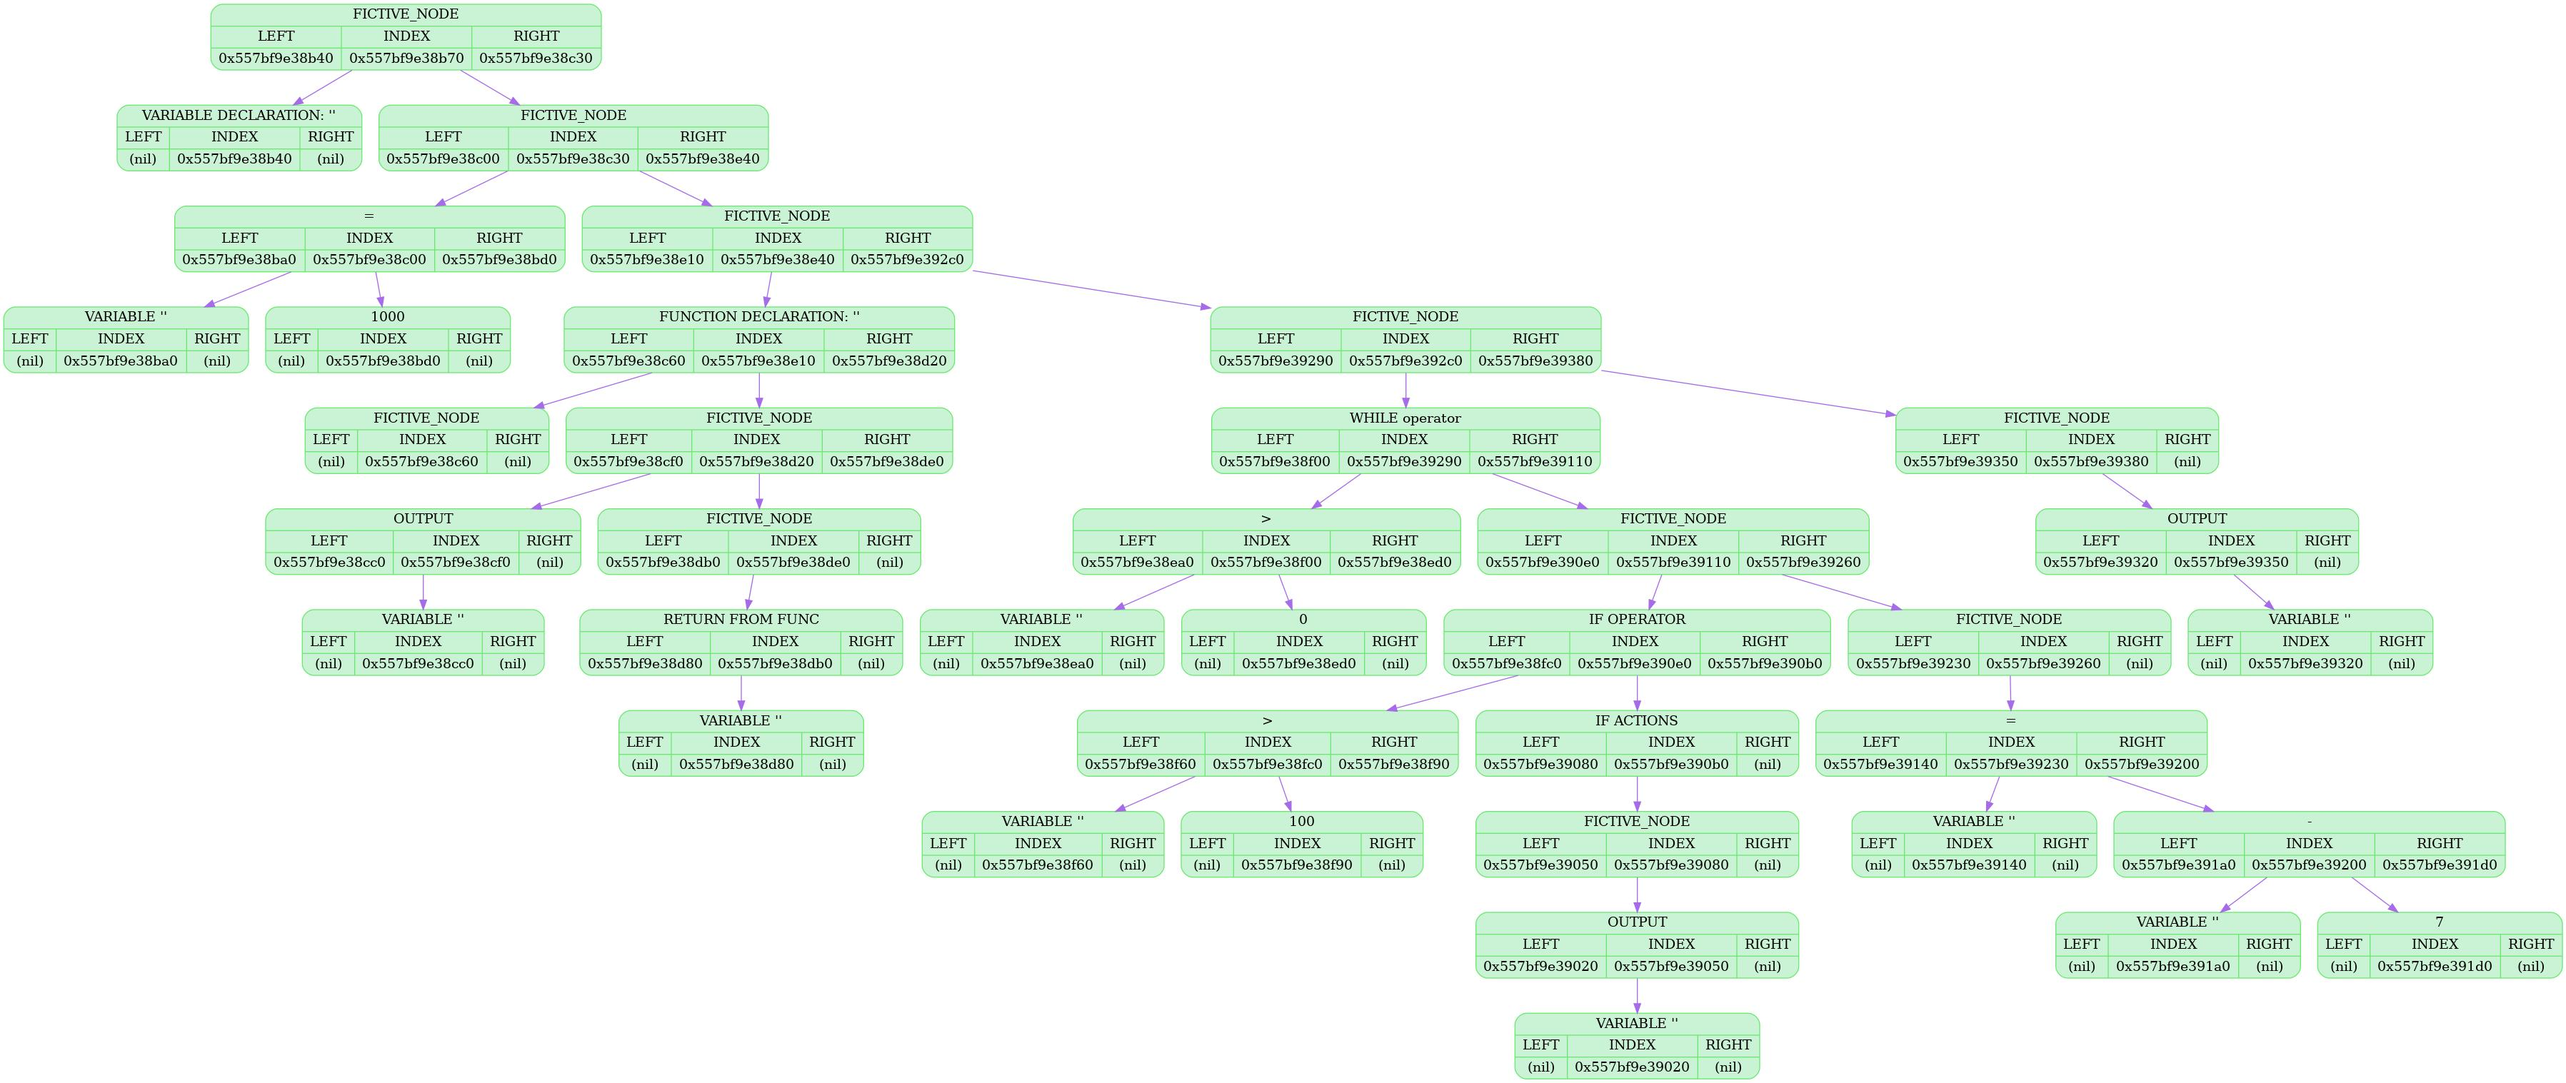
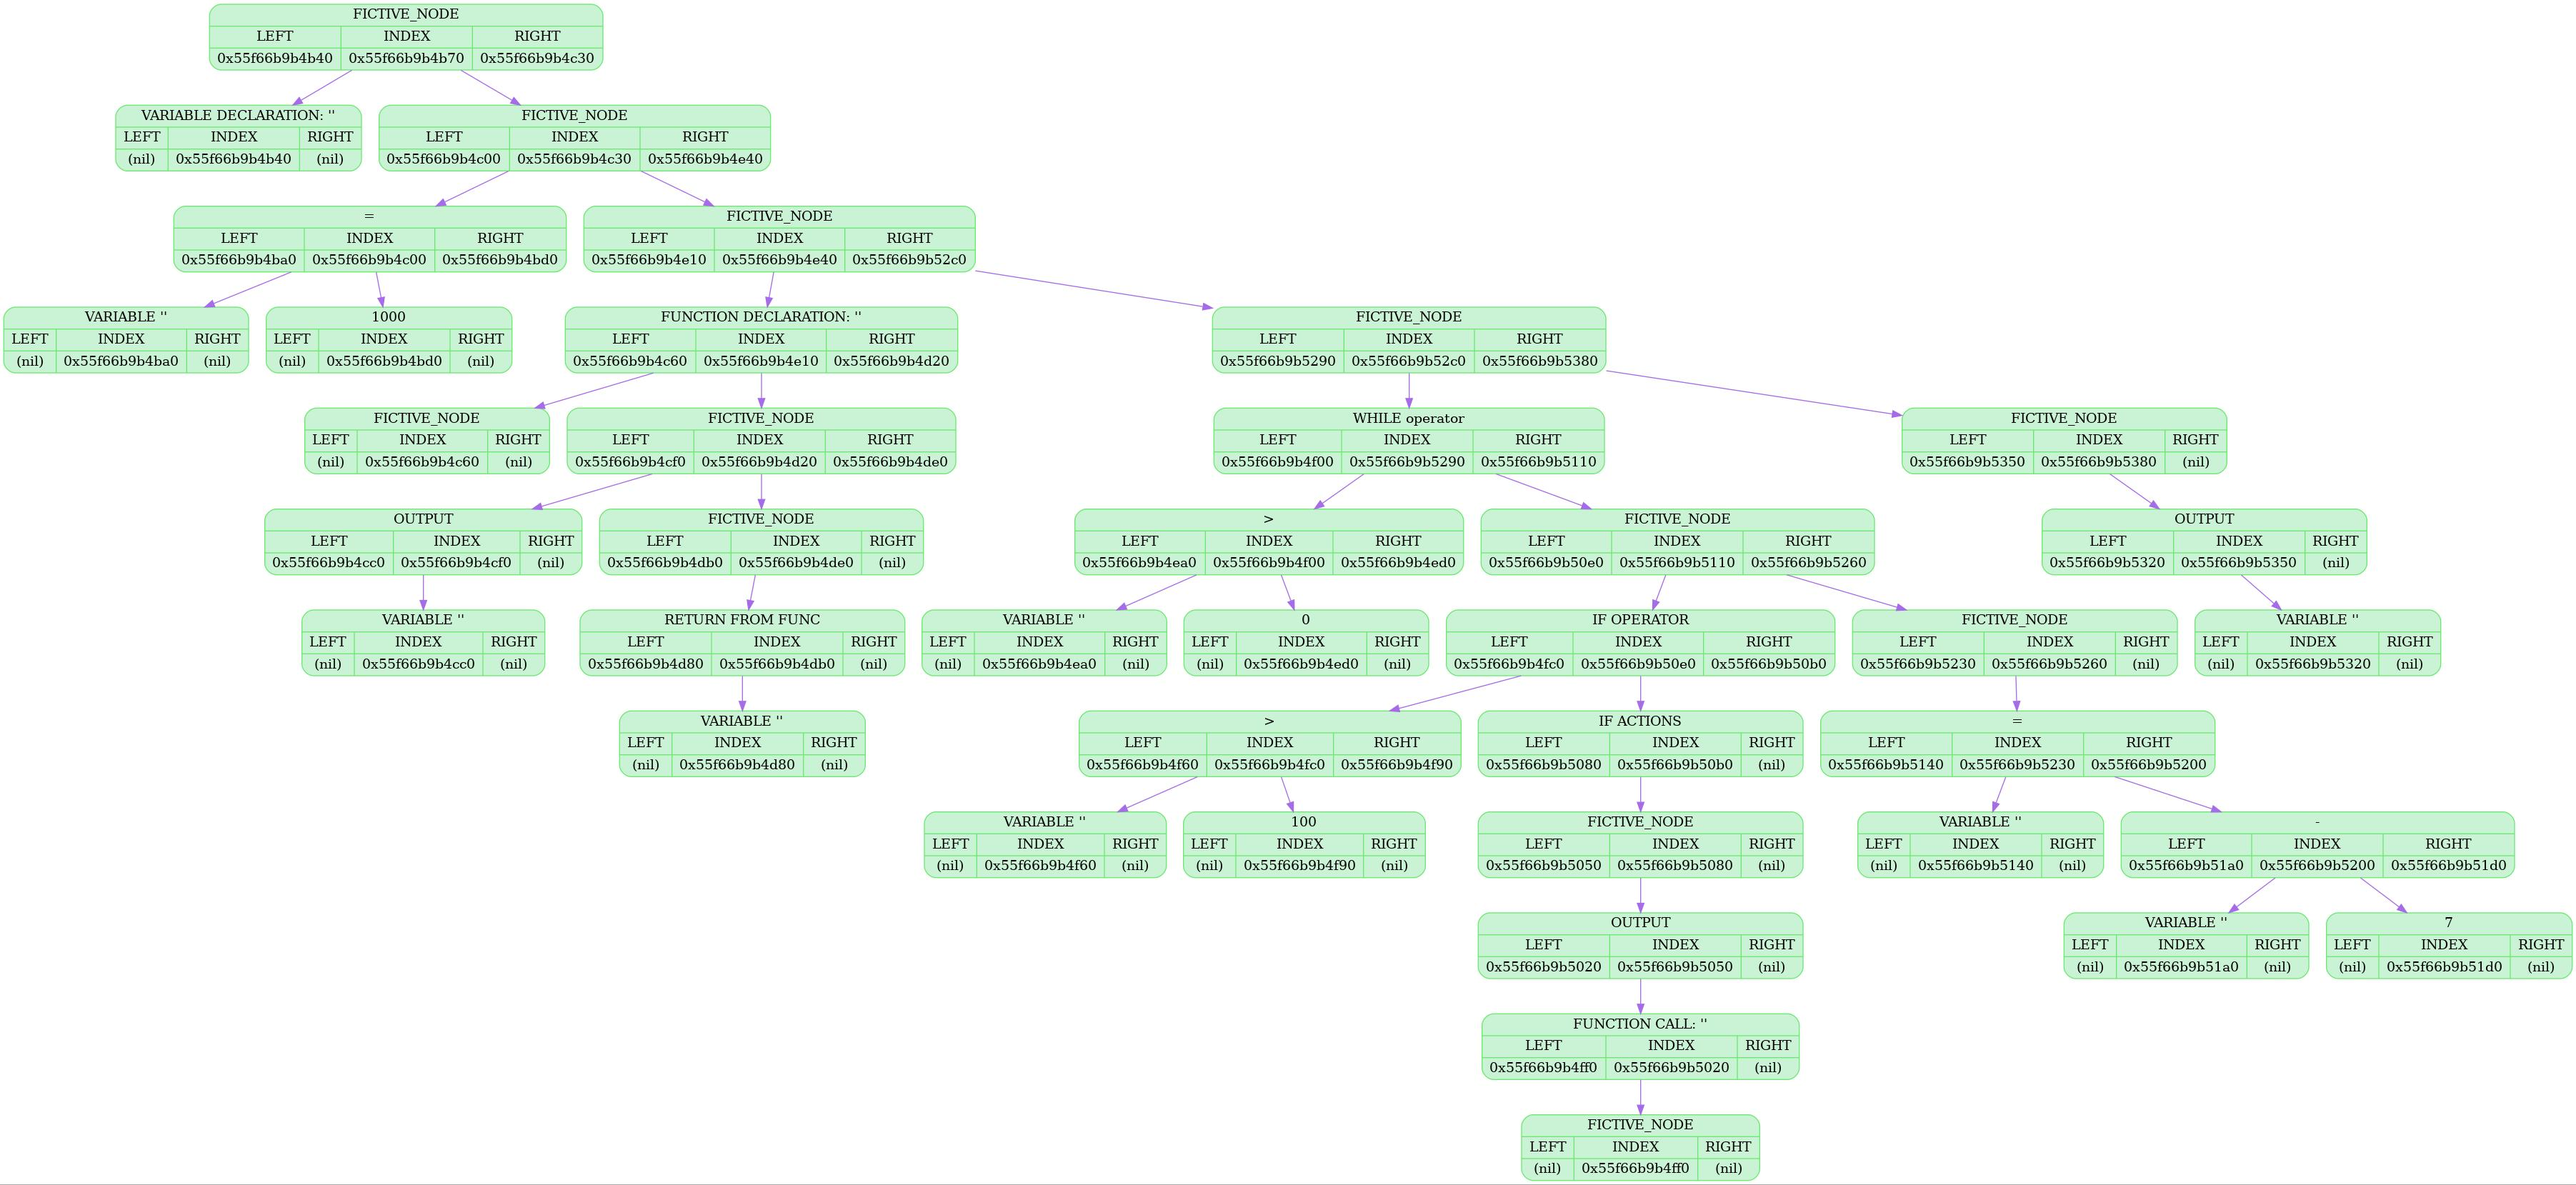
added functions without arguments

diff --git a/backend/backend.cpp b/backend/backend.cpp
@@ -20,7 +20,7 @@ void convertTreeToAsm(const char *tree_filename,
     fclose(main_fp);
 
     char command[BUFFER_SIZE] = "";
-    sprintf(command, "cat %s>> %s", asm_func_filename, asm_filename);
+    sprintf(command, "cat %s >> %s", asm_func_filename, asm_filename);
     system(command);
 
     sprintf(command, "rm %s", asm_func_filename);
@@ -246,7 +246,7 @@ void assemble_node(Tree *tree, Node *node, FILE *main_fp, FILE *func_fp)
             assemble_node(tree, RIGHT_NODE, func_fp, func_fp);
             break;
         case CALL:
-            // TODO: implement
+            fprintf(main_fp, "call :func_%s\n", tree->func_name_table[VALUE.def_value]);
             break;
         case RETURN:
             assemble_node(tree, LEFT_NODE, func_fp, func_fp);
